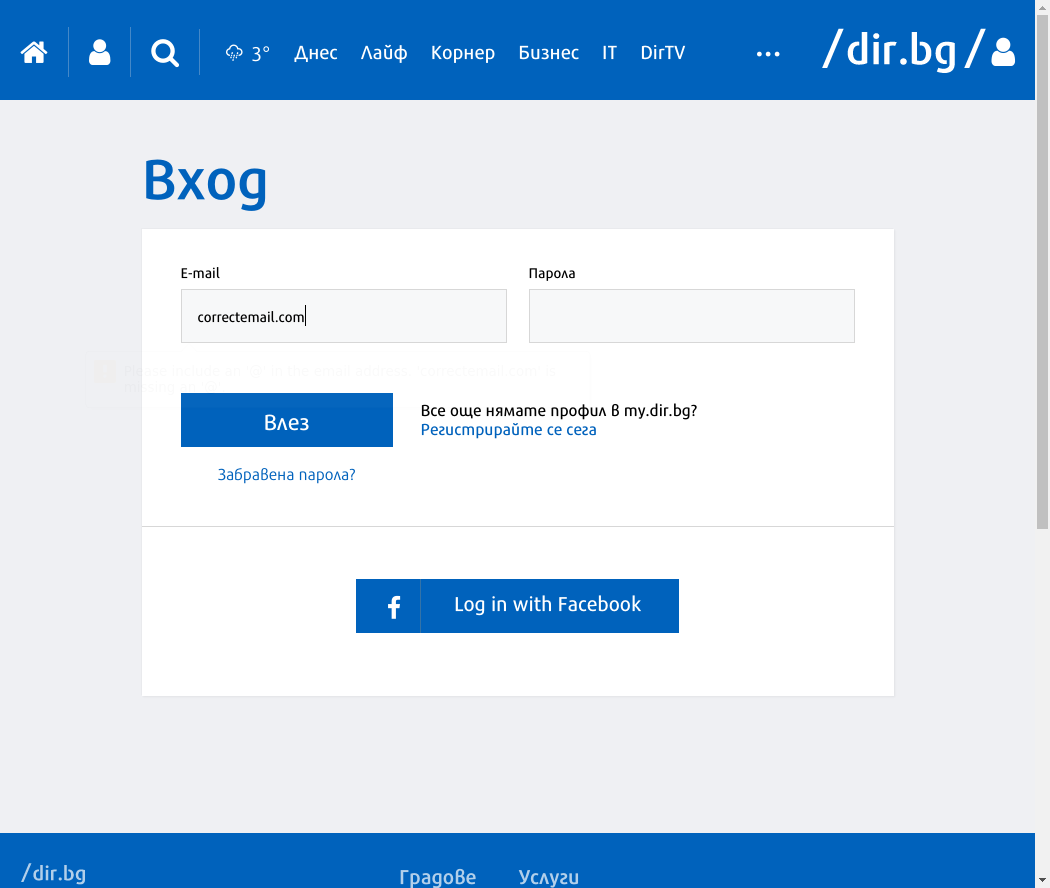
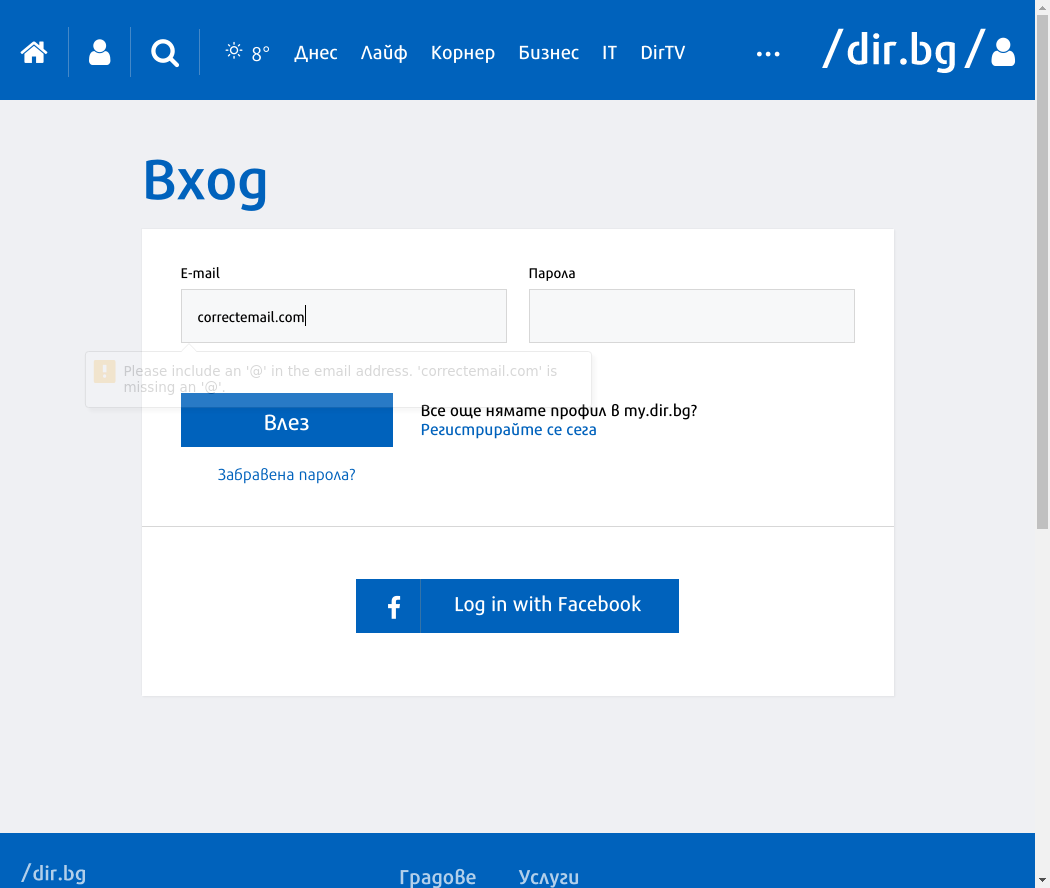
Sort of working

Changed region(s): [[0.1524, 0.4257, 0.3962, 0.4561], [0.0914, 0.3953, 0.1219, 0.4561], [0.2133, 0.0304, 0.2438, 0.0608]]

diff --git a/_output/SigninCest.signInAtSymbolMissing.fail.html b/_output/SigninCest.signInAtSymbolMissing.fail.html
@@ -42,7 +42,7 @@
         <script>
             window.DIR = {
                 initUrl: 'https://profile.dir.bg/init',
-                csrfToken: 'DNm8es8SZr97Q5MhQcVsMQEkwHHRTOpw3SqkC9Iq',
+                csrfToken: 'IkcP0vo4wi5hE85brY3k7bX1aRKLJTNi6CZABjPz',
                 articleId: '',
                 gameId: '',
                 sectionId: '',
@@ -90,7 +90,7 @@
     <button type="submit"><i class="icon icon-search"></i></button>
 </div>
 <div class="custom-select sites">
-    <select name="site" tabindex="-1" class="select2-hidden-accessible" aria-hidden="true"><option value="" selected="selected">Търсене в</option><option value="0">Всички сайтове</option><option value="3">Днес</option><option value="4">Лайф</option><option value="5">Корнер</option><option value="6">Бизнес</option><option value="7">IT</option><option value="1">Impressio</option><option value="12">Времето</option></select><span class="select2 select2-container select2-container--default" dir="ltr" style="width: 100%;"><span class="selection"><span class="select2-selection select2-selection--single" role="combobox" aria-haspopup="true" aria-expanded="false" tabindex="0" aria-labelledby="select2-site-y7-container"><span class="select2-selection__rendered" id="select2-site-y7-container" title="Търсене в">Търсене в</span><span class="select2-selection__arrow" role="presentation"><b role="presentation"></b></span></span></span><span class="dropdown-wrapper" aria-hidden="true"></span></span>
+    <select name="site" tabindex="-1" class="select2-hidden-accessible" aria-hidden="true"><option value="" selected="selected">Търсене в</option><option value="0">Всички сайтове</option><option value="3">Днес</option><option value="4">Лайф</option><option value="5">Корнер</option><option value="6">Бизнес</option><option value="7">IT</option><option value="1">Impressio</option><option value="12">Времето</option></select><span class="select2 select2-container select2-container--default" dir="ltr" style="width: 100%;"><span class="selection"><span class="select2-selection select2-selection--single" role="combobox" aria-haspopup="true" aria-expanded="false" tabindex="0" aria-labelledby="select2-site-9i-container"><span class="select2-selection__rendered" id="select2-site-9i-container" title="Търсене в">Търсене в</span><span class="select2-selection__arrow" role="presentation"><b role="presentation"></b></span></span></span><span class="dropdown-wrapper" aria-hidden="true"></span></span>
 </div>
     <div class="custom-select sections hidden" id="site-1">
         <select name="section" class="sections select2-hidden-accessible" tabindex="-1" aria-hidden="true" disabled="">
@@ -122,7 +122,7 @@
                             <option value="7">Импресио пита</option>
                             <option value="5">Афиш</option>
                             <option value="11">Премиера</option>
-                    </select><span class="select2 select2-container select2-container--default select2-container--disabled" dir="ltr" style="width: 100%;"><span class="selection"><span class="select2-selection select2-selection--single" role="combobox" aria-haspopup="true" aria-expanded="false" tabindex="-1" aria-labelledby="select2-section-cl-container"><span class="select2-selection__rendered" id="select2-section-cl-container" title="Всички">Всички</span><span class="select2-selection__arrow" role="presentation"><b role="presentation"></b></span></span></span><span class="dropdown-wrapper" aria-hidden="true"></span></span>
+                    </select><span class="select2 select2-container select2-container--default select2-container--disabled" dir="ltr" style="width: 100%;"><span class="selection"><span class="select2-selection select2-selection--single" role="combobox" aria-haspopup="true" aria-expanded="false" tabindex="-1" aria-labelledby="select2-section-gk-container"><span class="select2-selection__rendered" id="select2-section-gk-container" title="Всички">Всички</span><span class="select2-selection__arrow" role="presentation"><b role="presentation"></b></span></span></span><span class="dropdown-wrapper" aria-hidden="true"></span></span>
     </div>
     <div class="custom-select sections hidden" id="site-3">
         <select name="section" class="sections select2-hidden-accessible" tabindex="-1" aria-hidden="true" disabled="">
@@ -146,7 +146,7 @@
                             <option value="61">Бургас</option>
                             <option value="62">Русе</option>
                             <option value="144">PR Zone</option>
-                    </select><span class="select2 select2-container select2-container--default select2-container--disabled" dir="ltr" style="width: 100%;"><span class="selection"><span class="select2-selection select2-selection--single" role="combobox" aria-haspopup="true" aria-expanded="false" tabindex="-1" aria-labelledby="select2-section-ko-container"><span class="select2-selection__rendered" id="select2-section-ko-container" title="Всички">Всички</span><span class="select2-selection__arrow" role="presentation"><b role="presentation"></b></span></span></span><span class="dropdown-wrapper" aria-hidden="true"></span></span>
+                    </select><span class="select2 select2-container select2-container--default select2-container--disabled" dir="ltr" style="width: 100%;"><span class="selection"><span class="select2-selection select2-selection--single" role="combobox" aria-haspopup="true" aria-expanded="false" tabindex="-1" aria-labelledby="select2-section-m1-container"><span class="select2-selection__rendered" id="select2-section-m1-container" title="Всички">Всички</span><span class="select2-selection__arrow" role="presentation"><b role="presentation"></b></span></span></span><span class="dropdown-wrapper" aria-hidden="true"></span></span>
     </div>
     <div class="custom-select sections hidden" id="site-4">
         <select name="section" class="sections select2-hidden-accessible" tabindex="-1" aria-hidden="true" disabled="">
@@ -167,7 +167,7 @@
                             <option value="203">Разговори за съня</option>
                             <option value="129">Тествахме за вас...</option>
                             <option value="111">Отново в час</option>
-                    </select><span class="select2 select2-container select2-container--default select2-container--disabled" dir="ltr" style="width: 100%;"><span class="selection"><span class="select2-selection select2-selection--single" role="combobox" aria-haspopup="true" aria-expanded="false" tabindex="-1" aria-labelledby="select2-section-58-container"><span class="select2-selection__rendered" id="select2-section-58-container" title="Всички">Всички</span><span class="select2-selection__arrow" role="presentation"><b role="presentation"></b></span></span></span><span class="dropdown-wrapper" aria-hidden="true"></span></span>
+                    </select><span class="select2 select2-container select2-container--default select2-container--disabled" dir="ltr" style="width: 100%;"><span class="selection"><span class="select2-selection select2-selection--single" role="combobox" aria-haspopup="true" aria-expanded="false" tabindex="-1" aria-labelledby="select2-section-ss-container"><span class="select2-selection__rendered" id="select2-section-ss-container" title="Всички">Всички</span><span class="select2-selection__arrow" role="presentation"><b role="presentation"></b></span></span></span><span class="dropdown-wrapper" aria-hidden="true"></span></span>
     </div>
     <div class="custom-select sections hidden" id="site-5">
         <select name="section" class="sections select2-hidden-accessible" tabindex="-1" aria-hidden="true" disabled="">
@@ -189,7 +189,7 @@
                             <option value="93">В мишената</option>
                             <option value="188">pr-zone</option>
                             <option value="94">Други</option>
-                    </select><span class="select2 select2-container select2-container--default select2-container--disabled" dir="ltr" style="width: 100%;"><span class="selection"><span class="select2-selection select2-selection--single" role="combobox" aria-haspopup="true" aria-expanded="false" tabindex="-1" aria-labelledby="select2-section-h5-container"><span class="select2-selection__rendered" id="select2-section-h5-container" title="Всички">Всички</span><span class="select2-selection__arrow" role="presentation"><b role="presentation"></b></span></span></span><span class="dropdown-wrapper" aria-hidden="true"></span></span>
+                    </select><span class="select2 select2-container select2-container--default select2-container--disabled" dir="ltr" style="width: 100%;"><span class="selection"><span class="select2-selection select2-selection--single" role="combobox" aria-haspopup="true" aria-expanded="false" tabindex="-1" aria-labelledby="select2-section-hj-container"><span class="select2-selection__rendered" id="select2-section-hj-container" title="Всички">Всички</span><span class="select2-selection__arrow" role="presentation"><b role="presentation"></b></span></span></span><span class="dropdown-wrapper" aria-hidden="true"></span></span>
     </div>
     <div class="custom-select sections hidden" id="site-6">
         <select name="section" class="sections select2-hidden-accessible" tabindex="-1" aria-hidden="true" disabled="">
@@ -207,7 +207,7 @@
                             <option value="182">Фин Култура</option>
                             <option value="102">Портфейл</option>
                             <option value="136">PR Zone</option>
-                    </select><span class="select2 select2-container select2-container--default select2-container--disabled" dir="ltr" style="width: 100%;"><span class="selection"><span class="select2-selection select2-selection--single" role="combobox" aria-haspopup="true" aria-expanded="false" tabindex="-1" aria-labelledby="select2-section-ah-container"><span class="select2-selection__rendered" id="select2-section-ah-container" title="Всички">Всички</span><span class="select2-selection__arrow" role="presentation"><b role="presentation"></b></span></span></span><span class="dropdown-wrapper" aria-hidden="true"></span></span>
+                    </select><span class="select2 select2-container select2-container--default select2-container--disabled" dir="ltr" style="width: 100%;"><span class="selection"><span class="select2-selection select2-selection--single" role="combobox" aria-haspopup="true" aria-expanded="false" tabindex="-1" aria-labelledby="select2-section-a5-container"><span class="select2-selection__rendered" id="select2-section-a5-container" title="Всички">Всички</span><span class="select2-selection__arrow" role="presentation"><b role="presentation"></b></span></span></span><span class="dropdown-wrapper" aria-hidden="true"></span></span>
     </div>
     <div class="custom-select sections hidden" id="site-7">
         <select name="section" class="sections select2-hidden-accessible" tabindex="-1" aria-hidden="true" disabled="">
@@ -221,14 +221,14 @@
                             <option value="126">Ревю</option>
                             <option value="186">Дигитално образование</option>
                             <option value="128">PR Zone</option>
-                    </select><span class="select2 select2-container select2-container--default select2-container--disabled" dir="ltr" style="width: 100%;"><span class="selection"><span class="select2-selection select2-selection--single" role="combobox" aria-haspopup="true" aria-expanded="false" tabindex="-1" aria-labelledby="select2-section-hb-container"><span class="select2-selection__rendered" id="select2-section-hb-container" title="Всички">Всички</span><span class="select2-selection__arrow" role="presentation"><b role="presentation"></b></span></span></span><span class="dropdown-wrapper" aria-hidden="true"></span></span>
+                    </select><span class="select2 select2-container select2-container--default select2-container--disabled" dir="ltr" style="width: 100%;"><span class="selection"><span class="select2-selection select2-selection--single" role="combobox" aria-haspopup="true" aria-expanded="false" tabindex="-1" aria-labelledby="select2-section-lz-container"><span class="select2-selection__rendered" id="select2-section-lz-container" title="Всички">Всички</span><span class="select2-selection__arrow" role="presentation"><b role="presentation"></b></span></span></span><span class="dropdown-wrapper" aria-hidden="true"></span></span>
     </div>
     <div class="custom-select sections hidden" id="site-12">
         <select name="section" class="sections select2-hidden-accessible" tabindex="-1" aria-hidden="true" disabled="">
             <option value="">Всички</option>
                             <option value="109">Новини</option>
                             <option value="110">Пътна обстановка</option>
-                    </select><span class="select2 select2-container select2-container--default select2-container--disabled" dir="ltr" style="width: 100%;"><span class="selection"><span class="select2-selection select2-selection--single" role="combobox" aria-haspopup="true" aria-expanded="false" tabindex="-1" aria-labelledby="select2-section-s5-container"><span class="select2-selection__rendered" id="select2-section-s5-container" title="Всички">Всички</span><span class="select2-selection__arrow" role="presentation"><b role="presentation"></b></span></span></span><span class="dropdown-wrapper" aria-hidden="true"></span></span>
+                    </select><span class="select2 select2-container select2-container--default select2-container--disabled" dir="ltr" style="width: 100%;"><span class="selection"><span class="select2-selection select2-selection--single" role="combobox" aria-haspopup="true" aria-expanded="false" tabindex="-1" aria-labelledby="select2-section-ob-container"><span class="select2-selection__rendered" id="select2-section-ob-container" title="Всички">Всички</span><span class="select2-selection__arrow" role="presentation"><b role="presentation"></b></span></span></span><span class="dropdown-wrapper" aria-hidden="true"></span></span>
     </div>
     <div class="custom-select sections hidden" id="site-13">
         <select name="section" class="sections select2-hidden-accessible" tabindex="-1" aria-hidden="true" disabled="">
@@ -253,7 +253,7 @@
                             <option value="175">URBN Music Club </option>
                             <option value="176">Големият Вайръл </option>
                             <option value="179">Код 359</option>
-                    </select><span class="select2 select2-container select2-container--default select2-container--disabled" dir="ltr" style="width: 100%;"><span class="selection"><span class="select2-selection select2-selection--single" role="combobox" aria-haspopup="true" aria-expanded="false" tabindex="-1" aria-labelledby="select2-section-yf-container"><span class="select2-selection__rendered" id="select2-section-yf-container" title="Всички">Всички</span><span class="select2-selection__arrow" role="presentation"><b role="presentation"></b></span></span></span><span class="dropdown-wrapper" aria-hidden="true"></span></span>
+                    </select><span class="select2 select2-container select2-container--default select2-container--disabled" dir="ltr" style="width: 100%;"><span class="selection"><span class="select2-selection select2-selection--single" role="combobox" aria-haspopup="true" aria-expanded="false" tabindex="-1" aria-labelledby="select2-section-ss-container"><span class="select2-selection__rendered" id="select2-section-ss-container" title="Всички">Всички</span><span class="select2-selection__arrow" role="presentation"><b role="presentation"></b></span></span></span><span class="dropdown-wrapper" aria-hidden="true"></span></span>
     </div>
     <div class="custom-select sections hidden" id="site-17">
         <select name="section" class="sections select2-hidden-accessible" tabindex="-1" aria-hidden="true" disabled="">
@@ -265,18 +265,18 @@
                             <option value="214">Photo Trip</option>
                             <option value="215">Video Trip</option>
                             <option value="213">My Trip</option>
-                    </select><span class="select2 select2-container select2-container--default select2-container--disabled" dir="ltr" style="width: 100%;"><span class="selection"><span class="select2-selection select2-selection--single" role="combobox" aria-haspopup="true" aria-expanded="false" tabindex="-1" aria-labelledby="select2-section-1y-container"><span class="select2-selection__rendered" id="select2-section-1y-container" title="Всички">Всички</span><span class="select2-selection__arrow" role="presentation"><b role="presentation"></b></span></span></span><span class="dropdown-wrapper" aria-hidden="true"></span></span>
+                    </select><span class="select2 select2-container select2-container--default select2-container--disabled" dir="ltr" style="width: 100%;"><span class="selection"><span class="select2-selection select2-selection--single" role="combobox" aria-haspopup="true" aria-expanded="false" tabindex="-1" aria-labelledby="select2-section-of-container"><span class="select2-selection__rendered" id="select2-section-of-container" title="Всички">Всички</span><span class="select2-selection__arrow" role="presentation"><b role="presentation"></b></span></span></span><span class="dropdown-wrapper" aria-hidden="true"></span></span>
     </div>
 <div class="custom-select">
-    <select name="range" tabindex="-1" class="select2-hidden-accessible" aria-hidden="true"><option value="" selected="selected">Обхват</option><option value="content">Цялата статия</option><option value="title">Заглавие</option><option value="sources">Автор</option></select><span class="select2 select2-container select2-container--default" dir="ltr" style="width: 100%;"><span class="selection"><span class="select2-selection select2-selection--single" role="combobox" aria-haspopup="true" aria-expanded="false" tabindex="0" aria-labelledby="select2-range-ii-container"><span class="select2-selection__rendered" id="select2-range-ii-container" title="Обхват">Обхват</span><span class="select2-selection__arrow" role="presentation"><b role="presentation"></b></span></span></span><span class="dropdown-wrapper" aria-hidden="true"></span></span>
+    <select name="range" tabindex="-1" class="select2-hidden-accessible" aria-hidden="true"><option value="" selected="selected">Обхват</option><option value="content">Цялата статия</option><option value="title">Заглавие</option><option value="sources">Автор</option></select><span class="select2 select2-container select2-container--default" dir="ltr" style="width: 100%;"><span class="selection"><span class="select2-selection select2-selection--single" role="combobox" aria-haspopup="true" aria-expanded="false" tabindex="0" aria-labelledby="select2-range-oy-container"><span class="select2-selection__rendered" id="select2-range-oy-container" title="Обхват">Обхват</span><span class="select2-selection__arrow" role="presentation"><b role="presentation"></b></span></span></span><span class="dropdown-wrapper" aria-hidden="true"></span></span>
 </div>
 <div class="custom-select">
-    <select class="sort-order select2-hidden-accessible" name="order" tabindex="-1" aria-hidden="true"><option value="" selected="selected">Подредба</option><option value="published_on">По дата</option><option value="custom">По точност</option></select><span class="select2 select2-container select2-container--default" dir="ltr" style="width: 100%;"><span class="selection"><span class="select2-selection select2-selection--single" role="combobox" aria-haspopup="true" aria-expanded="false" tabindex="0" aria-labelledby="select2-order-q5-container"><span class="select2-selection__rendered" id="select2-order-q5-container" title="Подредба">Подредба</span><span class="select2-selection__arrow" role="presentation"><b role="presentation"></b></span></span></span><span class="dropdown-wrapper" aria-hidden="true"></span></span>
+    <select class="sort-order select2-hidden-accessible" name="order" tabindex="-1" aria-hidden="true"><option value="" selected="selected">Подредба</option><option value="published_on">По дата</option><option value="custom">По точност</option></select><span class="select2 select2-container select2-container--default" dir="ltr" style="width: 100%;"><span class="selection"><span class="select2-selection select2-selection--single" role="combobox" aria-haspopup="true" aria-expanded="false" tabindex="0" aria-labelledby="select2-order-up-container"><span class="select2-selection__rendered" id="select2-order-up-container" title="Подредба">Подредба</span><span class="select2-selection__arrow" role="presentation"><b role="presentation"></b></span></span></span><span class="dropdown-wrapper" aria-hidden="true"></span></span>
 </div>
 
 
 <div class="custom-select custom-datepicker">
-    <select name="date" tabindex="-1" class="select2-hidden-accessible" aria-hidden="true"><option value="" selected="selected">Дата</option><option value="all">Независимо кога</option><option value="last-day">Последните 24 часа</option><option value="last-week">Последната седмица</option><option value="last-month">Последния месец</option><option value="last-year">Последната година</option><option value="custom-period">Конкретен период</option></select><span class="select2 select2-container select2-container--default" dir="ltr" style="width: 100%;"><span class="selection"><span class="select2-selection select2-selection--single" role="combobox" aria-haspopup="true" aria-expanded="false" tabindex="0" aria-labelledby="select2-date-wx-container"><span class="select2-selection__rendered" id="select2-date-wx-container" title="Дата">Дата</span><span class="select2-selection__arrow" role="presentation"><b role="presentation"></b></span></span></span><span class="dropdown-wrapper" aria-hidden="true"></span></span>
+    <select name="date" tabindex="-1" class="select2-hidden-accessible" aria-hidden="true"><option value="" selected="selected">Дата</option><option value="all">Независимо кога</option><option value="last-day">Последните 24 часа</option><option value="last-week">Последната седмица</option><option value="last-month">Последния месец</option><option value="last-year">Последната година</option><option value="custom-period">Конкретен период</option></select><span class="select2 select2-container select2-container--default" dir="ltr" style="width: 100%;"><span class="selection"><span class="select2-selection select2-selection--single" role="combobox" aria-haspopup="true" aria-expanded="false" tabindex="0" aria-labelledby="select2-date-hu-container"><span class="select2-selection__rendered" id="select2-date-hu-container" title="Дата">Дата</span><span class="select2-selection__arrow" role="presentation"><b role="presentation"></b></span></span></span><span class="dropdown-wrapper" aria-hidden="true"></span></span>
 </div>
 
 </form>
@@ -297,7 +297,7 @@
 
 
                 </div>
-                                <a href="https://vremeto.dir.bg/" class="weather"><i class="icon icon-wi-rain-mix"></i>3°</a>
+                                <a href="https://vremeto.dir.bg/" class="weather"><i class="icon icon-wi-day-sunny"></i>8°</a>
                             </div>
             <nav class="main-nav">
                 <ul>
@@ -480,10 +480,10 @@
             <a href="#" class="end-date" data-tab="end-date">Крайна дата</a>
         </div>
         <div class="tab-content active" data-tab="start-date">
-            <div id="date-from"><div class="datepicker-inline"><div class="datepicker"><i class="datepicker--pointer"></i><nav class="datepicker--nav"><div class="datepicker--nav-action" data-action="prev"><svg xmlns="http://www.w3.org/2000/svg"><path d="M 17,12 l -5,5 l 5,5"/></svg></div><div class="datepicker--nav-title">февруари, <i>2021</i></div><div class="datepicker--nav-action" data-action="next"><svg xmlns="http://www.w3.org/2000/svg"><path d="M 14,12 l 5,5 l -5,5"/></svg></div></nav><div class="datepicker--content"><div class="datepicker--days datepicker--body active"><div class="datepicker--days-names"><div class="datepicker--day-name">пн</div><div class="datepicker--day-name">вт</div><div class="datepicker--day-name">ср</div><div class="datepicker--day-name">чт</div><div class="datepicker--day-name">пт</div><div class="datepicker--day-name -weekend-">сб</div><div class="datepicker--day-name -weekend-">нд</div></div><div class="datepicker--cells datepicker--cells-days"><div class="datepicker--cell datepicker--cell-day" data-date="1" data-month="1" data-year="2021">1</div><div class="datepicker--cell datepicker--cell-day" data-date="2" data-month="1" data-year="2021">2</div><div class="datepicker--cell datepicker--cell-day" data-date="3" data-month="1" data-year="2021">3</div><div class="datepicker--cell datepicker--cell-day" data-date="4" data-month="1" data-year="2021">4</div><div class="datepicker--cell datepicker--cell-day" data-date="5" data-month="1" data-year="2021">5</div><div class="datepicker--cell datepicker--cell-day -weekend-" data-date="6" data-month="1" data-year="2021">6</div><div class="datepicker--cell datepicker--cell-day -weekend-" data-date="7" data-month="1" data-year="2021">7</div><div class="datepicker--cell datepicker--cell-day" data-date="8" data-month="1" data-year="2021">8</div><div class="datepicker--cell datepicker--cell-day" data-date="9" data-month="1" data-year="2021">9</div><div class="datepicker--cell datepicker--cell-day" data-date="10" data-month="1" data-year="2021">10</div><div class="datepicker--cell datepicker--cell-day" data-date="11" data-month="1" data-year="2021">11</div><div class="datepicker--cell datepicker--cell-day" data-date="12" data-month="1" data-year="2021">12</div><div class="datepicker--cell datepicker--cell-day -weekend-" data-date="13" data-month="1" data-year="2021">13</div><div class="datepicker--cell datepicker--cell-day -weekend-" data-date="14" data-month="1" data-year="2021">14</div><div class="datepicker--cell datepicker--cell-day" data-date="15" data-month="1" data-year="2021">15</div><div class="datepicker--cell datepicker--cell-day" data-date="16" data-month="1" data-year="2021">16</div><div class="datepicker--cell datepicker--cell-day" data-date="17" data-month="1" data-year="2021">17</div><div class="datepicker--cell datepicker--cell-day" data-date="18" data-month="1" data-year="2021">18</div><div class="datepicker--cell datepicker--cell-day" data-date="19" data-month="1" data-year="2021">19</div><div class="datepicker--cell datepicker--cell-day -weekend- -current-" data-date="20" data-month="1" data-year="2021">20</div><div class="datepicker--cell datepicker--cell-day -weekend-" data-date="21" data-month="1" data-year="2021">21</div><div class="datepicker--cell datepicker--cell-day" data-date="22" data-month="1" data-year="2021">22</div><div class="datepicker--cell datepicker--cell-day" data-date="23" data-month="1" data-year="2021">23</div><div class="datepicker--cell datepicker--cell-day" data-date="24" data-month="1" data-year="2021">24</div><div class="datepicker--cell datepicker--cell-day" data-date="25" data-month="1" data-year="2021">25</div><div class="datepicker--cell datepicker--cell-day" data-date="26" data-month="1" data-year="2021">26</div><div class="datepicker--cell datepicker--cell-day -weekend-" data-date="27" data-month="1" data-year="2021">27</div><div class="datepicker--cell datepicker--cell-day -weekend-" data-date="28" data-month="1" data-year="2021">28</div></div></div></div></div></div></div>
+            <div id="date-from"><div class="datepicker-inline"><div class="datepicker"><i class="datepicker--pointer"></i><nav class="datepicker--nav"><div class="datepicker--nav-action" data-action="prev"><svg xmlns="http://www.w3.org/2000/svg"><path d="M 17,12 l -5,5 l 5,5"/></svg></div><div class="datepicker--nav-title">февруари, <i>2021</i></div><div class="datepicker--nav-action" data-action="next"><svg xmlns="http://www.w3.org/2000/svg"><path d="M 14,12 l 5,5 l -5,5"/></svg></div></nav><div class="datepicker--content"><div class="datepicker--days datepicker--body active"><div class="datepicker--days-names"><div class="datepicker--day-name">пн</div><div class="datepicker--day-name">вт</div><div class="datepicker--day-name">ср</div><div class="datepicker--day-name">чт</div><div class="datepicker--day-name">пт</div><div class="datepicker--day-name -weekend-">сб</div><div class="datepicker--day-name -weekend-">нд</div></div><div class="datepicker--cells datepicker--cells-days"><div class="datepicker--cell datepicker--cell-day" data-date="1" data-month="1" data-year="2021">1</div><div class="datepicker--cell datepicker--cell-day" data-date="2" data-month="1" data-year="2021">2</div><div class="datepicker--cell datepicker--cell-day" data-date="3" data-month="1" data-year="2021">3</div><div class="datepicker--cell datepicker--cell-day" data-date="4" data-month="1" data-year="2021">4</div><div class="datepicker--cell datepicker--cell-day" data-date="5" data-month="1" data-year="2021">5</div><div class="datepicker--cell datepicker--cell-day -weekend-" data-date="6" data-month="1" data-year="2021">6</div><div class="datepicker--cell datepicker--cell-day -weekend-" data-date="7" data-month="1" data-year="2021">7</div><div class="datepicker--cell datepicker--cell-day" data-date="8" data-month="1" data-year="2021">8</div><div class="datepicker--cell datepicker--cell-day" data-date="9" data-month="1" data-year="2021">9</div><div class="datepicker--cell datepicker--cell-day" data-date="10" data-month="1" data-year="2021">10</div><div class="datepicker--cell datepicker--cell-day" data-date="11" data-month="1" data-year="2021">11</div><div class="datepicker--cell datepicker--cell-day" data-date="12" data-month="1" data-year="2021">12</div><div class="datepicker--cell datepicker--cell-day -weekend-" data-date="13" data-month="1" data-year="2021">13</div><div class="datepicker--cell datepicker--cell-day -weekend-" data-date="14" data-month="1" data-year="2021">14</div><div class="datepicker--cell datepicker--cell-day" data-date="15" data-month="1" data-year="2021">15</div><div class="datepicker--cell datepicker--cell-day" data-date="16" data-month="1" data-year="2021">16</div><div class="datepicker--cell datepicker--cell-day" data-date="17" data-month="1" data-year="2021">17</div><div class="datepicker--cell datepicker--cell-day" data-date="18" data-month="1" data-year="2021">18</div><div class="datepicker--cell datepicker--cell-day" data-date="19" data-month="1" data-year="2021">19</div><div class="datepicker--cell datepicker--cell-day -weekend-" data-date="20" data-month="1" data-year="2021">20</div><div class="datepicker--cell datepicker--cell-day -weekend- -current-" data-date="21" data-month="1" data-year="2021">21</div><div class="datepicker--cell datepicker--cell-day" data-date="22" data-month="1" data-year="2021">22</div><div class="datepicker--cell datepicker--cell-day" data-date="23" data-month="1" data-year="2021">23</div><div class="datepicker--cell datepicker--cell-day" data-date="24" data-month="1" data-year="2021">24</div><div class="datepicker--cell datepicker--cell-day" data-date="25" data-month="1" data-year="2021">25</div><div class="datepicker--cell datepicker--cell-day" data-date="26" data-month="1" data-year="2021">26</div><div class="datepicker--cell datepicker--cell-day -weekend-" data-date="27" data-month="1" data-year="2021">27</div><div class="datepicker--cell datepicker--cell-day -weekend-" data-date="28" data-month="1" data-year="2021">28</div></div></div></div></div></div></div>
         </div>
         <div class="tab-content" data-tab="end-date">
-            <div id="date-to"><div class="datepicker-inline"><div class="datepicker"><i class="datepicker--pointer"></i><nav class="datepicker--nav"><div class="datepicker--nav-action" data-action="prev"><svg xmlns="http://www.w3.org/2000/svg"><path d="M 17,12 l -5,5 l 5,5"/></svg></div><div class="datepicker--nav-title">февруари, <i>2021</i></div><div class="datepicker--nav-action" data-action="next"><svg xmlns="http://www.w3.org/2000/svg"><path d="M 14,12 l 5,5 l -5,5"/></svg></div></nav><div class="datepicker--content"><div class="datepicker--days datepicker--body active"><div class="datepicker--days-names"><div class="datepicker--day-name">пн</div><div class="datepicker--day-name">вт</div><div class="datepicker--day-name">ср</div><div class="datepicker--day-name">чт</div><div class="datepicker--day-name">пт</div><div class="datepicker--day-name -weekend-">сб</div><div class="datepicker--day-name -weekend-">нд</div></div><div class="datepicker--cells datepicker--cells-days"><div class="datepicker--cell datepicker--cell-day" data-date="1" data-month="1" data-year="2021">1</div><div class="datepicker--cell datepicker--cell-day" data-date="2" data-month="1" data-year="2021">2</div><div class="datepicker--cell datepicker--cell-day" data-date="3" data-month="1" data-year="2021">3</div><div class="datepicker--cell datepicker--cell-day" data-date="4" data-month="1" data-year="2021">4</div><div class="datepicker--cell datepicker--cell-day" data-date="5" data-month="1" data-year="2021">5</div><div class="datepicker--cell datepicker--cell-day -weekend-" data-date="6" data-month="1" data-year="2021">6</div><div class="datepicker--cell datepicker--cell-day -weekend-" data-date="7" data-month="1" data-year="2021">7</div><div class="datepicker--cell datepicker--cell-day" data-date="8" data-month="1" data-year="2021">8</div><div class="datepicker--cell datepicker--cell-day" data-date="9" data-month="1" data-year="2021">9</div><div class="datepicker--cell datepicker--cell-day" data-date="10" data-month="1" data-year="2021">10</div><div class="datepicker--cell datepicker--cell-day" data-date="11" data-month="1" data-year="2021">11</div><div class="datepicker--cell datepicker--cell-day" data-date="12" data-month="1" data-year="2021">12</div><div class="datepicker--cell datepicker--cell-day -weekend-" data-date="13" data-month="1" data-year="2021">13</div><div class="datepicker--cell datepicker--cell-day -weekend-" data-date="14" data-month="1" data-year="2021">14</div><div class="datepicker--cell datepicker--cell-day" data-date="15" data-month="1" data-year="2021">15</div><div class="datepicker--cell datepicker--cell-day" data-date="16" data-month="1" data-year="2021">16</div><div class="datepicker--cell datepicker--cell-day" data-date="17" data-month="1" data-year="2021">17</div><div class="datepicker--cell datepicker--cell-day" data-date="18" data-month="1" data-year="2021">18</div><div class="datepicker--cell datepicker--cell-day" data-date="19" data-month="1" data-year="2021">19</div><div class="datepicker--cell datepicker--cell-day -weekend- -current-" data-date="20" data-month="1" data-year="2021">20</div><div class="datepicker--cell datepicker--cell-day -weekend-" data-date="21" data-month="1" data-year="2021">21</div><div class="datepicker--cell datepicker--cell-day" data-date="22" data-month="1" data-year="2021">22</div><div class="datepicker--cell datepicker--cell-day" data-date="23" data-month="1" data-year="2021">23</div><div class="datepicker--cell datepicker--cell-day" data-date="24" data-month="1" data-year="2021">24</div><div class="datepicker--cell datepicker--cell-day" data-date="25" data-month="1" data-year="2021">25</div><div class="datepicker--cell datepicker--cell-day" data-date="26" data-month="1" data-year="2021">26</div><div class="datepicker--cell datepicker--cell-day -weekend-" data-date="27" data-month="1" data-year="2021">27</div><div class="datepicker--cell datepicker--cell-day -weekend-" data-date="28" data-month="1" data-year="2021">28</div></div></div></div></div></div></div>
+            <div id="date-to"><div class="datepicker-inline"><div class="datepicker"><i class="datepicker--pointer"></i><nav class="datepicker--nav"><div class="datepicker--nav-action" data-action="prev"><svg xmlns="http://www.w3.org/2000/svg"><path d="M 17,12 l -5,5 l 5,5"/></svg></div><div class="datepicker--nav-title">февруари, <i>2021</i></div><div class="datepicker--nav-action" data-action="next"><svg xmlns="http://www.w3.org/2000/svg"><path d="M 14,12 l 5,5 l -5,5"/></svg></div></nav><div class="datepicker--content"><div class="datepicker--days datepicker--body active"><div class="datepicker--days-names"><div class="datepicker--day-name">пн</div><div class="datepicker--day-name">вт</div><div class="datepicker--day-name">ср</div><div class="datepicker--day-name">чт</div><div class="datepicker--day-name">пт</div><div class="datepicker--day-name -weekend-">сб</div><div class="datepicker--day-name -weekend-">нд</div></div><div class="datepicker--cells datepicker--cells-days"><div class="datepicker--cell datepicker--cell-day" data-date="1" data-month="1" data-year="2021">1</div><div class="datepicker--cell datepicker--cell-day" data-date="2" data-month="1" data-year="2021">2</div><div class="datepicker--cell datepicker--cell-day" data-date="3" data-month="1" data-year="2021">3</div><div class="datepicker--cell datepicker--cell-day" data-date="4" data-month="1" data-year="2021">4</div><div class="datepicker--cell datepicker--cell-day" data-date="5" data-month="1" data-year="2021">5</div><div class="datepicker--cell datepicker--cell-day -weekend-" data-date="6" data-month="1" data-year="2021">6</div><div class="datepicker--cell datepicker--cell-day -weekend-" data-date="7" data-month="1" data-year="2021">7</div><div class="datepicker--cell datepicker--cell-day" data-date="8" data-month="1" data-year="2021">8</div><div class="datepicker--cell datepicker--cell-day" data-date="9" data-month="1" data-year="2021">9</div><div class="datepicker--cell datepicker--cell-day" data-date="10" data-month="1" data-year="2021">10</div><div class="datepicker--cell datepicker--cell-day" data-date="11" data-month="1" data-year="2021">11</div><div class="datepicker--cell datepicker--cell-day" data-date="12" data-month="1" data-year="2021">12</div><div class="datepicker--cell datepicker--cell-day -weekend-" data-date="13" data-month="1" data-year="2021">13</div><div class="datepicker--cell datepicker--cell-day -weekend-" data-date="14" data-month="1" data-year="2021">14</div><div class="datepicker--cell datepicker--cell-day" data-date="15" data-month="1" data-year="2021">15</div><div class="datepicker--cell datepicker--cell-day" data-date="16" data-month="1" data-year="2021">16</div><div class="datepicker--cell datepicker--cell-day" data-date="17" data-month="1" data-year="2021">17</div><div class="datepicker--cell datepicker--cell-day" data-date="18" data-month="1" data-year="2021">18</div><div class="datepicker--cell datepicker--cell-day" data-date="19" data-month="1" data-year="2021">19</div><div class="datepicker--cell datepicker--cell-day -weekend-" data-date="20" data-month="1" data-year="2021">20</div><div class="datepicker--cell datepicker--cell-day -weekend- -current-" data-date="21" data-month="1" data-year="2021">21</div><div class="datepicker--cell datepicker--cell-day" data-date="22" data-month="1" data-year="2021">22</div><div class="datepicker--cell datepicker--cell-day" data-date="23" data-month="1" data-year="2021">23</div><div class="datepicker--cell datepicker--cell-day" data-date="24" data-month="1" data-year="2021">24</div><div class="datepicker--cell datepicker--cell-day" data-date="25" data-month="1" data-year="2021">25</div><div class="datepicker--cell datepicker--cell-day" data-date="26" data-month="1" data-year="2021">26</div><div class="datepicker--cell datepicker--cell-day -weekend-" data-date="27" data-month="1" data-year="2021">27</div><div class="datepicker--cell datepicker--cell-day -weekend-" data-date="28" data-month="1" data-year="2021">28</div></div></div></div></div></div></div>
         </div>
     </div>
     <div class="datepicker-footer">
@@ -497,7 +497,7 @@
         <div class="auth-container">
             <h2>Вход</h2>
             <div class="auth-block">
-                <form method="POST" action="https://profile.dir.bg/login" accept-charset="UTF-8" class="auth-block-section"><input name="_token" type="hidden" value="DNm8es8SZr97Q5MhQcVsMQEkwHHRTOpw3SqkC9Iq" />
+                <form method="POST" action="https://profile.dir.bg/login" accept-charset="UTF-8" class="auth-block-section"><input name="_token" type="hidden" value="IkcP0vo4wi5hE85brY3k7bX1aRKLJTNi6CZABjPz" />
                     <div class="half">
                         <div class="form-group">
                             <label for="email">Е-mail</label>

diff --git a/acceptance/SignInCest.php b/acceptance/SignInCest.php
@@ -8,7 +8,7 @@ class SigninCest
 	$I->see('Вход');
     }
 
-    /*public function signInWrongMailAndPass(AcceptanceTester $I)
+    public function signInWrongMailAndPass(AcceptanceTester $I)
     {	
 	$I->fillField(['id'=>'login-email'], 'wrong@email.com');
 	$I->fillField(['id'=>'password'], 'wrongpass');	
@@ -50,15 +50,15 @@ class SigninCest
 	$I->fillField(['id'=>'login-email'], 'correct@email.com');
 	$I->click(['class'=>'login-btns']);
 	$I->see('Вход');
-    }*/
+    }
 
-   public function signInAtSymbolMissing(AcceptanceTester $I)
+   /*public function signInAtSymbolMissing(AcceptanceTester $I)
     {	
 	$I->fillField(['id'=>'login-email'], 'correctemail.com');
 	$I->click(['class'=>'login-btns']);
 	$I->seeResponseContainsJson(['error' => 'Please include an "@" in the email address']);
 	$I->seeInPopup('Please include an "@" in the email address');
-    }
+    }*/
 
 }
 
